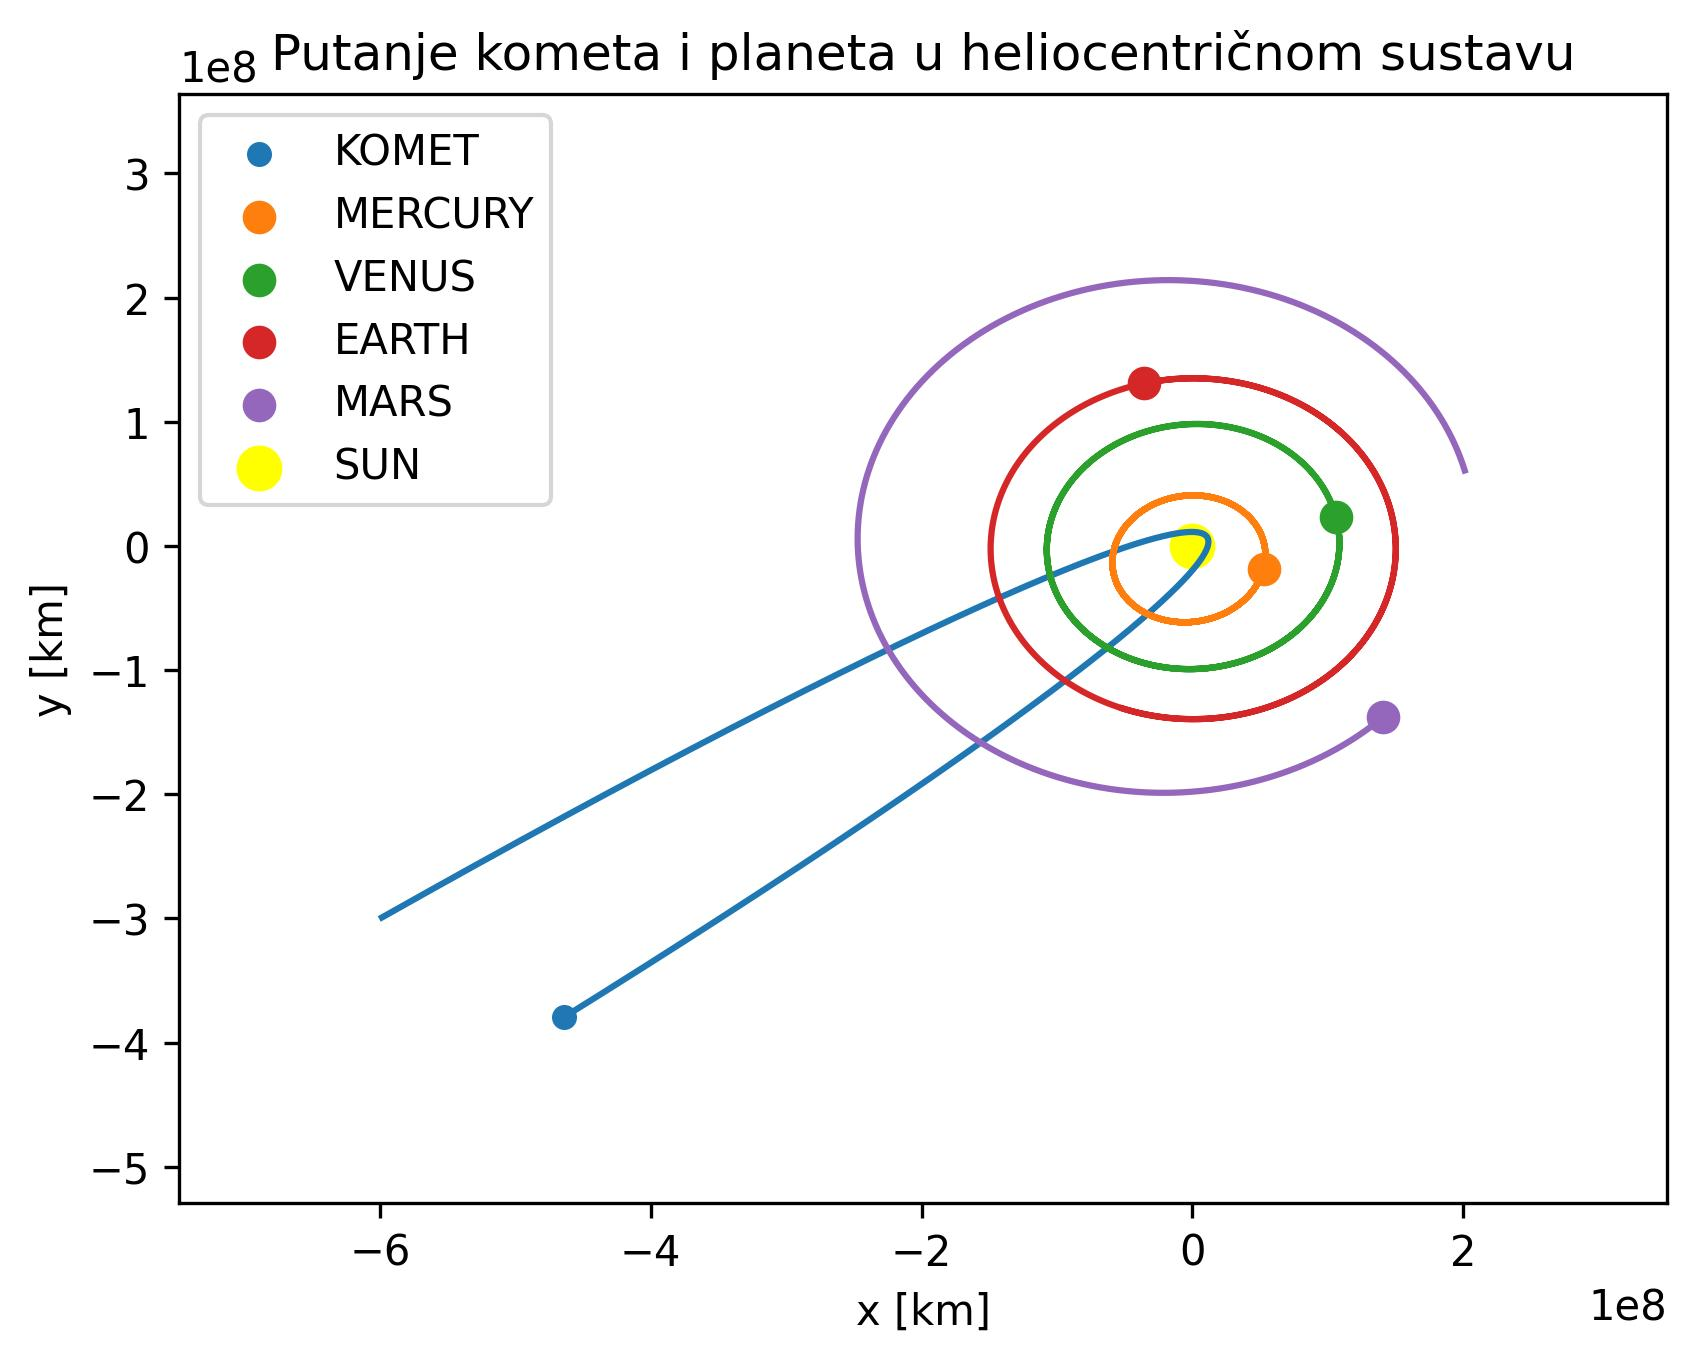
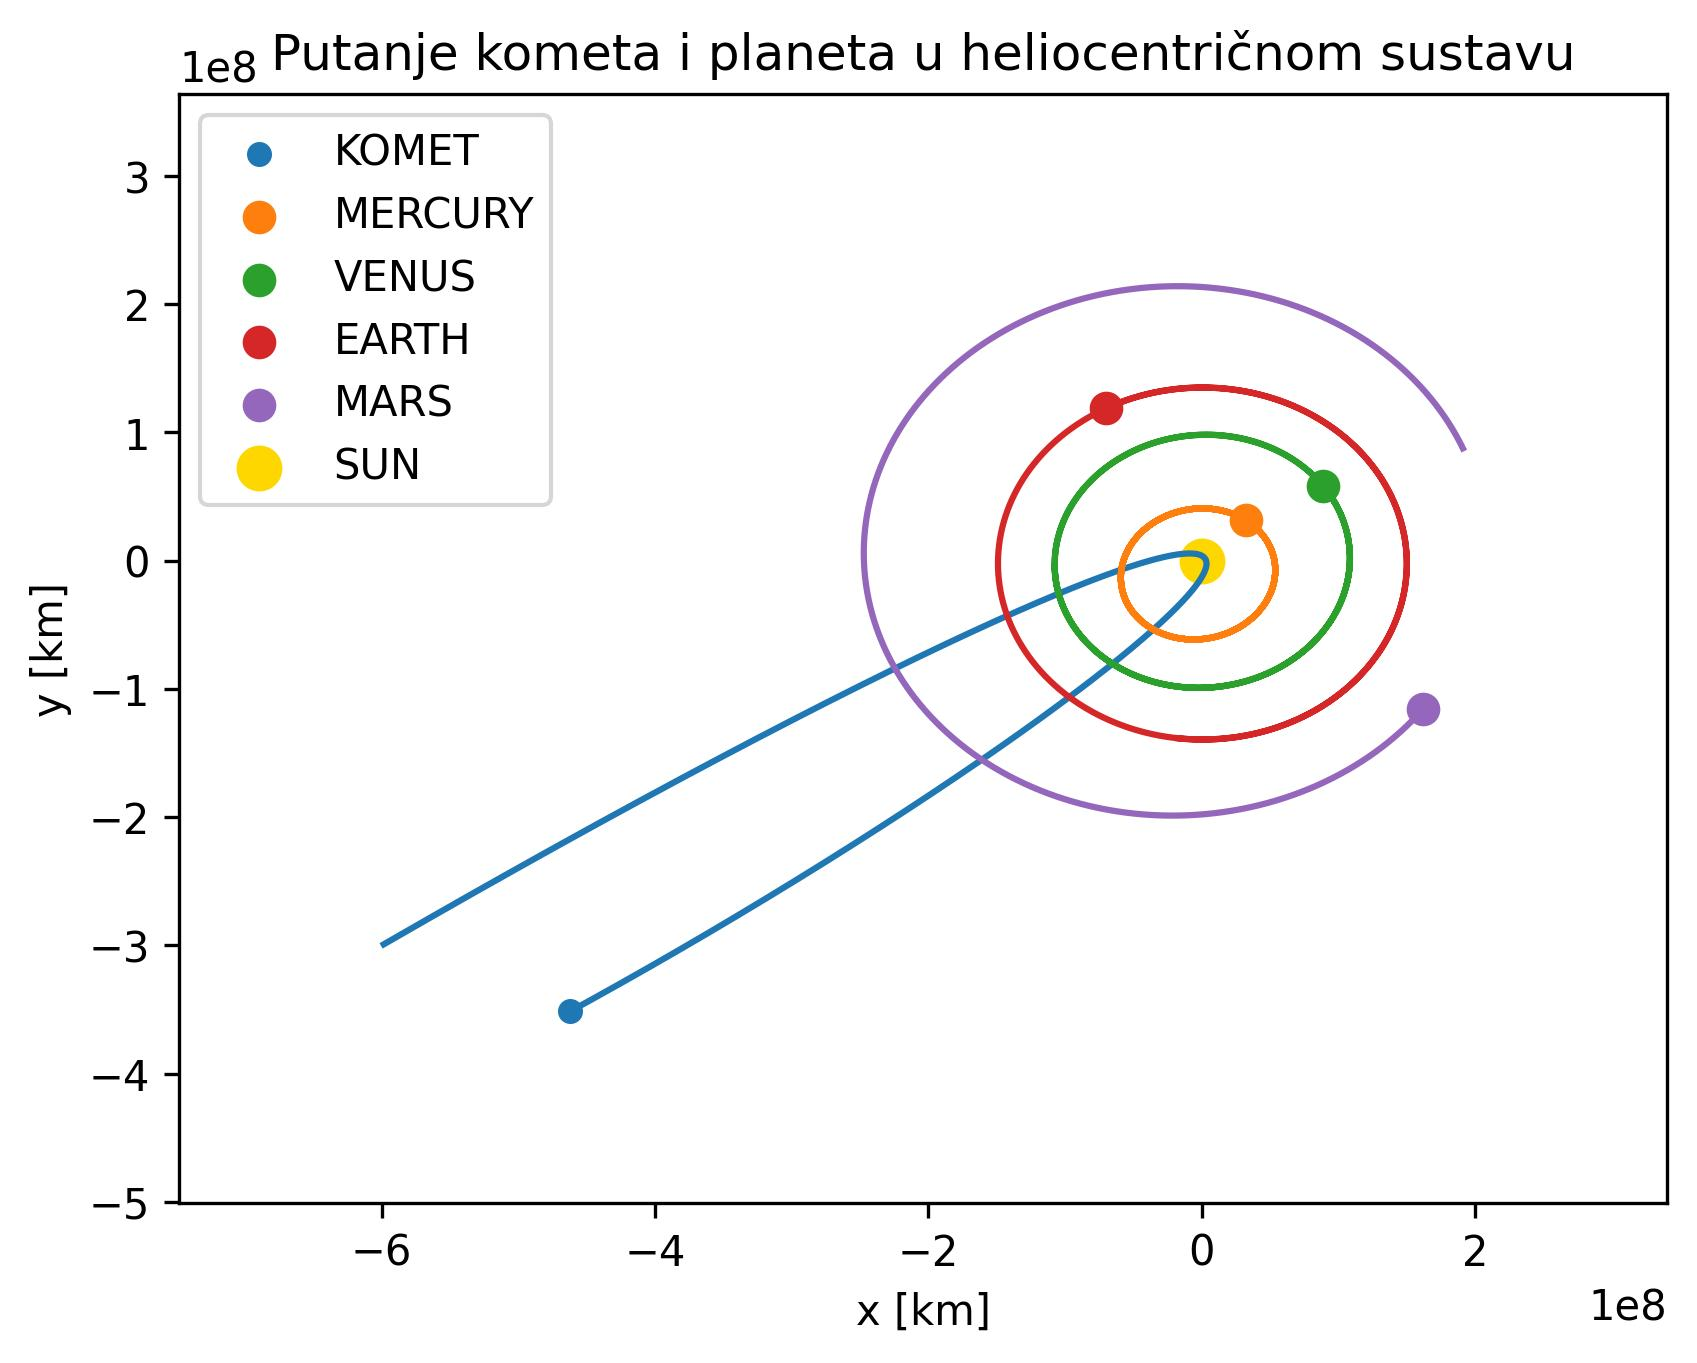
Seminar

diff --git a/Seminar/seminar_4.py b/Seminar/seminar_4.py
@@ -13,20 +13,14 @@ plt.scatter(M_mnp[i_kraj, 0, 1], M_mnp[i_kraj, 0, 2], s=25, label="KOMET")
 for i, ID in enumerate(ID_valid_list):
 
     if ID == 10:
-        color = "yellow"
+        color = "gold"
         size = 100
     else:
         color = None
         size = 50
 
     plt.plot(M_mnp[0:i_kraj+1, i+1, 1], M_mnp[0:i_kraj+1, i+1, 2], color=color)
-    plt.scatter(
-        M_mnp[i_kraj, i+1, 1],
-        M_mnp[i_kraj, i+1, 2],
-        s=size,
-        label=f"{IME_rječnik[ID]}",
-        color=color
-    )
+    plt.scatter(M_mnp[i_kraj, i+1, 1], M_mnp[i_kraj, i+1, 2], s=size, label=f"{IME_rječnik[ID]}", color=color)
 
 x_min = np.min(M_mnp[0:i_kraj+1, :, 1]) - 1*AU
 x_max = np.max(M_mnp[0:i_kraj+1, :, 1]) + 1*AU

diff --git a/Seminar/seminar_2.py b/Seminar/seminar_2.py
@@ -55,10 +55,3 @@ for i, ID in enumerate(ID_list):
         ID_valid_list.append(ID)
 
 ######################################################################################
-
-for i, ID in enumerate(ID_list):
-
-    ime = sp.bodc2n(ID)
-    FRAME_rječnik[ID] = "IAU_" + ime.upper()
-
-######################################################################################
